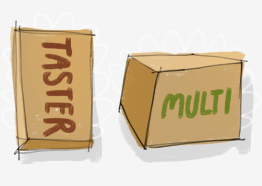
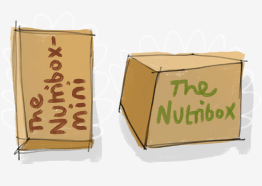
Changed the choose illustration to reflect the new box names

Changed region(s): [[0.0916, 0.1882, 0.3359, 0.7527], [0.5802, 0.4301, 0.916, 0.672]]

diff --git a/app/assets/stylesheets/application.css b/app/assets/stylesheets/application.css
@@ -454,8 +454,6 @@ a.twitter-link {
   
   padding: 0px 0 50px;
   margin: 0;
-  margin-bottom
-  
   -webkit-box-shadow:1px 1px 10px rgba(0,0,0,0.3);
   -moz-box-shadow:1px 1px 10px rgba(0,0,0,0.3);
   box-shadow:1px 1px 10px rgba(0,0,0,0.3);  
